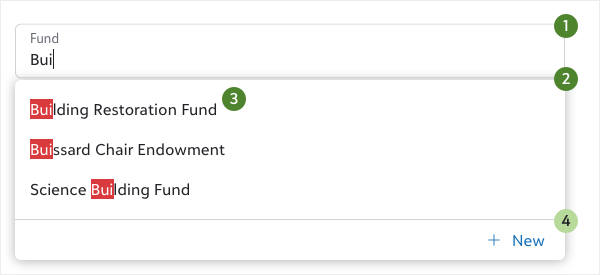
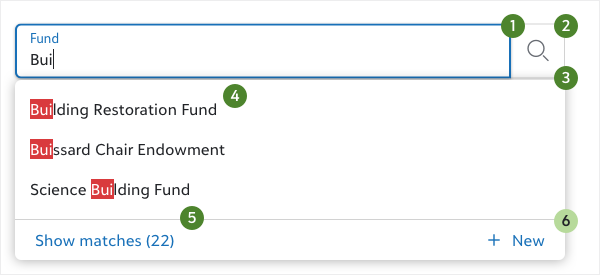
Lookup docs update (#187)
* images

* draft UX docs

* 1 additional usage guideline

* added heading to demo controls

* Update src/app/docs/lookup/lookup-docs.component.html

* Update src/app/docs/lookup/lookup-docs.component.html

* Update src/app/docs/lookup/lookup-docs.component.html

* Update src/app/docs/lookup/lookup-docs.component.html

* Update src/app/docs/lookup/lookup-docs.component.html

* Update src/app/docs/lookup/lookup-docs.component.html

* Update src/app/docs/lookup/lookup-docs.component.html

* Update src/app/docs/lookup/lookup-docs.component.html

* Update src/app/docs/lookup/lookup-docs.component.html

* Update src/app/docs/lookup/lookup-docs.component.html

* Update src/app/docs/lookup/lookup-docs.component.html

* Update src/app/docs/lookup/lookup-docs.component.html

* Update src/app/docs/lookup/lookup-docs.component.html

* Update src/app/docs/lookup/lookup-docs.component.html

* Update src/app/docs/lookup/lookup-docs.component.html

* Update src/app/docs/lookup/lookup-docs.component.html

* Update src/app/docs/lookup/lookup-docs.component.html

* Update src/app/docs/lookup/lookup-docs.component.html

* Update src/app/docs/lookup/lookup-docs.component.html

* Update src/app/docs/lookup/lookup-docs.component.html

* Update src/app/docs/lookup/lookup-docs.component.html

* Update src/app/docs/lookup/lookup-docs.component.html

* Update src/app/docs/lookup/lookup-docs.component.html

* Update src/app/docs/lookup/lookup-docs.component.html
[…]

diff --git a/libs/components/lookup/src/app/docs/lookup/lookup-docs.component.html b/libs/components/lookup/src/app/docs/lookup/lookup-docs.component.html
@@ -14,6 +14,7 @@
       >
       <sky-docs-demo-control-panel-section>
         <sky-docs-demo-control-panel-radio-group
+          heading="Selection mode"
           initialValue="multiple"
           propertyName="selectMode"
           [choices]="selectModeChoices"
@@ -69,10 +70,112 @@
         heading="Use when"
         headingStyle="success"
       >
-        <p class="sky-docs-text-block">
-          Use the lookup component when users need to select an option or multiple options from a long list of options. For guidance on which selection inputs to use in other scenarios, see the <a href="https://developer.blackbaud.com/skyux/design/guidelines/form-design#selection-inputs">form design guidelines</a>.
+        <p>
+          Use lookup fields when users must choose one or more options from a very long list or from an unpredictable list with unfamiliar options. Lookup fields allow users to enter search criteria to narrow their options, so they are useful when lists are unique to the system. For example, use lookup fields for user-defined lists such as code tables where the options are unpredictable and for system-defined lists such as templates where the options are unique to the organization.
         </p>
+        <sky-docs-design-guideline-thumbnail
+            *skyThemeIf="'default'" caption="Do use lookup fields when users choose from long lists of options."
+                                    captionType="success"
+                                    imageSource="~/assets/img/guidelines/lookup/lookup-usage-1-default.png">
+        </sky-docs-design-guideline-thumbnail>
+        <sky-docs-design-guideline-thumbnail
+            *skyThemeIf="'modern'" caption="Do use lookup fields when users choose from long lists of options."
+                                   captionType="success"
+                                   imageSource="~/assets/img/guidelines/lookup/lookup-usage-1-modern.png">
+        </sky-docs-design-guideline-thumbnail>
       </sky-docs-design-guideline>
+        
+      <sky-docs-design-guideline>
+        <p>
+          Use lookup fields when users can choose multiple options from a long list.
+        </p>
+        <sky-docs-design-guideline-thumbnail
+            *skyThemeIf="'default'" caption="Do use lookup fields when users may need to select multiple options."
+                                    captionType="success"
+                                    imageSource="~/assets/img/guidelines/lookup/lookup-usage-2-default.png">
+        </sky-docs-design-guideline-thumbnail>
+        <sky-docs-design-guideline-thumbnail
+            *skyThemeIf="'modern'" caption="Do use lookup fields when users may need to select multiple options."
+                                   captionType="success"
+                                   imageSource="~/assets/img/guidelines/lookup/lookup-usage-2-modern.png">
+        </sky-docs-design-guideline-thumbnail>
+      </sky-docs-design-guideline>
+        
+      <sky-docs-design-guideline>
+        <p>
+          Use lookup fields when users can add options to the list during their tasks.
+        </p>
+        <sky-docs-design-guideline-thumbnail
+            *skyThemeIf="'default'" caption="Do use lookup fields when users may need to add options to the list."
+                                    captionType="success"
+                                    imageSource="~/assets/img/guidelines/lookup/lookup-usage-3-default.png">
+        </sky-docs-design-guideline-thumbnail>
+        <sky-docs-design-guideline-thumbnail
+            *skyThemeIf="'modern'" caption="Do use lookup fields when users may need to add options to the list."
+                                   captionType="success"
+                                   imageSource="~/assets/img/guidelines/lookup/lookup-usage-3-modern.png">
+        </sky-docs-design-guideline-thumbnail>
+      </sky-docs-design-guideline>
+        
+      <sky-docs-design-guideline
+        heading="Don't use when"
+        headingStyle="danger"
+      >
+        <p>
+            Don’t use lookup fields when short lists include 5 options or fewer, especially if it is valuable for users to see all options at once. Use
+            <a *skyThemeIf="'default'" href="https://developer.blackbaud.com/skyux-forms/docs/checkbox">checkboxes</a>
+            <a *skyThemeIf="'modern'" href="https://developer.blackbaud.com/skyux-forms/docs/checkbox?svcid=skyux-modern">checkboxes</a> or 
+            <a *skyThemeIf="'default'" href="https://developer.blackbaud.com/skyux-forms/docs/radio">radio buttons</a>
+            <a *skyThemeIf="'modern'" href="https://developer.blackbaud.com/skyux-forms/docs/radio?svcid=skyux-modern">radio buttons</a> instead.
+        </p>
+        <sky-docs-design-guideline-thumbnail
+            *skyThemeIf="'default'" caption="Don't use lookup fields when users choose options from a short list."
+                                    captionType="danger"
+                                    imageSource="~/assets/img/guidelines/lookup/lookup-usage-4-default.png">
+        </sky-docs-design-guideline-thumbnail>
+        <sky-docs-design-guideline-thumbnail
+            *skyThemeIf="'modern'" caption="Don't use lookup fields when users choose options from a short list."
+                                   captionType="danger"
+                                   imageSource="~/assets/img/guidelines/lookup/lookup-usage-4-modern.png">
+        </sky-docs-design-guideline-thumbnail>
+        <sky-docs-design-guideline-thumbnail
+            *skyThemeIf="'default'" caption="Do use different selection inputs for a short list of options."
+                                    captionType="success"
+                                    imageSource="~/assets/img/guidelines/lookup/lookup-usage-5-default.png">
+        </sky-docs-design-guideline-thumbnail>
+        <sky-docs-design-guideline-thumbnail
+            *skyThemeIf="'modern'" caption="Do use different selection inputs for a short list of options."
+                                   captionType="success"
+                                   imageSource="~/assets/img/guidelines/lookup/lookup-usage-5-modern.png">
+        </sky-docs-design-guideline-thumbnail>
+      </sky-docs-design-guideline>
+        
+      <sky-docs-design-guideline>
+        <p>
+            Don’t use lookup fields when options are highly predictable or when users can easily browse options in an expected order. Use HTML select fields instead. For example, while a list of states is long, it’s predictable and most users are familiar with the options, so the native HTML select field is the preferable option.
+        </p>
+        <sky-docs-design-guideline-thumbnail
+            *skyThemeIf="'default'" caption="Don't use lookup fields when users likely know all the options."
+                                    captionType="danger"
+                                    imageSource="~/assets/img/guidelines/lookup/lookup-usage-6-default.png">
+        </sky-docs-design-guideline-thumbnail>
+        <sky-docs-design-guideline-thumbnail
+            *skyThemeIf="'modern'" caption="Don't use lookup fields when users likely know all the options."
+                                   captionType="danger"
+                                   imageSource="~/assets/img/guidelines/lookup/lookup-usage-6-modern.png">
+        </sky-docs-design-guideline-thumbnail>
+        <sky-docs-design-guideline-thumbnail
+            *skyThemeIf="'default'" caption="Do use HTML select fields for predictable or common sets of options."
+                                    captionType="success"
+                                    imageSource="~/assets/img/guidelines/lookup/lookup-usage-7-default.png">
+        </sky-docs-design-guideline-thumbnail>
+        <sky-docs-design-guideline-thumbnail
+            *skyThemeIf="'modern'" caption="Do use HTML select fields for predictable or common sets of options."
+                                   captionType="success"
+                                   imageSource="~/assets/img/guidelines/lookup/lookup-usage-7-modern.png">
+        </sky-docs-design-guideline-thumbnail>
+      </sky-docs-design-guideline>
+        
     </sky-docs-demo-page-section>
 
     <sky-docs-demo-page-section
@@ -82,17 +185,21 @@
         *skyThemeIf="'default'" imagePath="~/assets/img/guidelines/lookup/lookup-anatomy-default.png"
       >
         <sky-docs-anatomy-item>Input field</sky-docs-anatomy-item>
+        <sky-docs-anatomy-item>Search button</sky-docs-anatomy-item>
         <sky-docs-anatomy-item>Lookup menu</sky-docs-anatomy-item>
         <sky-docs-anatomy-item>Search results</sky-docs-anatomy-item>
-        <sky-docs-anatomy-item isOptional="true">Button to create new option</sky-docs-anatomy-item>
+        <sky-docs-anatomy-item>'Show all/matches' button</sky-docs-anatomy-item>
+        <sky-docs-anatomy-item isOptional="true">'New' button</sky-docs-anatomy-item>
       </sky-docs-anatomy>
       <sky-docs-anatomy
         *skyThemeIf="'modern'" imagePath="~/assets/img/guidelines/lookup/lookup-anatomy-modern.png"
       >
         <sky-docs-anatomy-item>Input field</sky-docs-anatomy-item>
+        <sky-docs-anatomy-item>Search button</sky-docs-anatomy-item>
         <sky-docs-anatomy-item>Lookup menu</sky-docs-anatomy-item>
         <sky-docs-anatomy-item>Search results</sky-docs-anatomy-item>
-        <sky-docs-anatomy-item isOptional="true">Button to create new option</sky-docs-anatomy-item>
+        <sky-docs-anatomy-item>'Show all/matches' button</sky-docs-anatomy-item>
+        <sky-docs-anatomy-item isOptional="true">'New' button</sky-docs-anatomy-item>
       </sky-docs-anatomy>
     </sky-docs-demo-page-section>
 
@@ -141,11 +248,229 @@
         </sky-docs-design-guideline-thumbnail>
     </sky-docs-design-guideline>
 
+    <sky-docs-design-guideline
+      heading="Button to view all options"
+    >
+        <p>
+          The 'Show all/matches' button in the lookup menu lets users open a picker that either displays all options or just the options that match their search string. This button is technically optional for backwards compatibility, but we strongly recommend that you enable it in all instances.
+        </p>
+        <sky-docs-design-guideline-thumbnail
+            *skyThemeIf="'default'" imageSource="~/assets/img/guidelines/lookup/lookup-options-2-default.png">
+        </sky-docs-design-guideline-thumbnail>
+        <sky-docs-design-guideline-thumbnail
+            *skyThemeIf="'modern'" imageSource="~/assets/img/guidelines/lookup/lookup-options-2-modern.png">
+        </sky-docs-design-guideline-thumbnail>
+    </sky-docs-design-guideline>
+
+    <sky-docs-design-guideline
+      heading="Custom picker"
+    >
+        <p>
+          By default, the search and 'Show all/matches' buttons display a native picker with built-in options such as checkboxes for multi-select mode. Use custom pickers instead when different presentations are valuable, such as 
+          <a *skyThemeIf="'default'" href="https://developer.blackbaud.com/skyux-lists/docs/repeater">repeaters</a>
+          <a *skyThemeIf="'modern'" href="https://developer.blackbaud.com/skyux-lists/docs/repeater?svcid=skyux-modern">repeaters</a> 
+          or 
+          <a *skyThemeIf="'default'" href="https://developer.blackbaud.com/skyux-angular-tree-component/docs/angular-tree">tree views</a>
+          <a *skyThemeIf="'modern'" >tree views</a>. By default, both the native picker and custom pickers format options based on the same template as the dropdown list, but you can specify a different template to format the picker options as necessary.
+        </p>
+        <sky-docs-design-guideline-thumbnail
+            *skyThemeIf="'default'" imageSource="~/assets/img/guidelines/lookup/lookup-options-4-default.png">
+        </sky-docs-design-guideline-thumbnail>
+        <sky-docs-design-guideline-thumbnail
+            *skyThemeIf="'modern'" imageSource="~/assets/img/guidelines/lookup/lookup-options-4-modern.png">
+        </sky-docs-design-guideline-thumbnail>
+    </sky-docs-design-guideline>
+
     </sky-docs-demo-page-section>
 
     <sky-docs-demo-page-section
+      heading="Behavior and states"
+    >
+      
+        <sky-docs-design-guideline
+          heading="Behavior"
+        >
+            <p class="sky-docs-text-block">
+            When users place focus on lookup fields, the lookup menu displays the 'Show all #' button. It also displays the 'New' button if that is enabled.
+            </p>
+            <p class="sky-docs-text-block">
+            When users enter the minimum number of characters for search, the lookup menu displays search results and highlights the search string. The “Show all #” button label changes to “Show matches (#)."
+            </p>
+            <p class="sky-docs-text-block">
+            At any time, users can select the search or 'Show all/matches' buttons to open a picker that either displays all options or the options that match their search string.
+            </p>
+            <p class="sky-docs-text-block">
+            When users choose an option in single-select mode, the lookup menu or picker closes, and the selected option appears as text in the lookup field.
+            </p>
+            <p class="sky-docs-text-block">
+            When users choose options in multi-select mode, the selected options appear as tokens in the text input field, and focus returns to the lookup field. The lookup menu displays the 'Show all #' button but does not display search results until users enter the minimum number of characters.
+            </p>
+            <p class="sky-docs-text-block">
+            When users remove focus before selecting an option, the lookup field deletes any text.
+            </p>
+        </sky-docs-design-guideline>
+        
+        <h3>States</h3>
+        
+            <table class="sky-docs-table">
+              <tr>
+                <td class="sky-docs-table-cell sky-docs-table-cell-primary">
+                  Base
+                </td>
+                <td class="sky-docs-table-cell">
+                  <sky-docs-design-guideline-thumbnail
+                        *skyThemeIf="'default'"
+                        imageSource="~/assets/img/guidelines/lookup/lookup-states-base-default.png"
+                  >
+                  </sky-docs-design-guideline-thumbnail>
+                  <sky-docs-design-guideline-thumbnail
+                        *skyThemeIf="'modern'"
+                        imageSource="~/assets/img/guidelines/lookup/lookup-states-base-modern.png"
+                  >
+                  </sky-docs-design-guideline-thumbnail>
+                </td>
+              </tr>
+              <tr>
+                <td class="sky-docs-table-cell">
+                  Focus
+                </td>
+                <td class="sky-docs-table-cell">
+                  <sky-docs-design-guideline-thumbnail
+                        *skyThemeIf="'default'"
+                        imageSource="~/assets/img/guidelines/lookup/lookup-states-focus-default.png"
+                  >
+                  </sky-docs-design-guideline-thumbnail>
+                  <sky-docs-design-guideline-thumbnail
+                        *skyThemeIf="'modern'"
+                        imageSource="~/assets/img/guidelines/lookup/lookup-states-focus-modern.png"
+                  >
+                  </sky-docs-design-guideline-thumbnail>
+                </td>
+              </tr>
+              <tr>
+                <td class="sky-docs-table-cell">
+                  Search string
+                </td>
+                <td class="sky-docs-table-cell">
+                  <sky-docs-design-guideline-thumbnail
+                        *skyThemeIf="'default'"
+                        imageSource="~/assets/img/guidelines/lookup/lookup-states-search-string-default.png"
+                  >
+                  </sky-docs-design-guideline-thumbnail>
+                  <sky-docs-design-guideline-thumbnail
+                        *skyThemeIf="'modern'"
+                        imageSource="~/assets/img/guidelines/lookup/lookup-states-search-string-modern.png"
+                  >
+                  </sky-docs-design-guideline-thumbnail>
+                </td>
+              </tr>
+              <tr>
+                <td class="sky-docs-table-cell sky-docs-table-cell-primary">
+                  Selected option (single-select)
+                </td>
+                <td class="sky-docs-table-cell">
+                  <sky-docs-design-guideline-thumbnail
+                        *skyThemeIf="'default'"
+                        imageSource="~/assets/img/guidelines/lookup/lookup-states-result-selected-default.png"
+                  >
+                  </sky-docs-design-guideline-thumbnail>
+                  <sky-docs-design-guideline-thumbnail
+                        *skyThemeIf="'modern'"
+                        imageSource="~/assets/img/guidelines/lookup/lookup-states-result-selected-modern.png"
+                  >
+                  </sky-docs-design-guideline-thumbnail>
+                </td>
+              </tr>
+              <tr>
+                <td class="sky-docs-table-cell">
+                  Selected option (multi-select)
+                </td>
+                <td class="sky-docs-table-cell">
+                  <sky-docs-design-guideline-thumbnail
+                        *skyThemeIf="'default'"
+                        imageSource="~/assets/img/guidelines/lookup/lookup-states-results-selected-default.png"
+                  >
+                  </sky-docs-design-guideline-thumbnail>
+                  <sky-docs-design-guideline-thumbnail
+                        *skyThemeIf="'modern'"
+                        imageSource="~/assets/img/guidelines/lookup/lookup-states-results-selected-modern.png"
+                  >
+                  </sky-docs-design-guideline-thumbnail>
+                </td>
+              </tr>
+              <tr>
+                <td class="sky-docs-table-cell">
+                  Wrapped selections (multi-select)
+                </td>
+                <td class="sky-docs-table-cell">
+                  <sky-docs-design-guideline-thumbnail
+                        *skyThemeIf="'default'"
+                        imageSource="~/assets/img/guidelines/lookup/lookup-states-wrapped-default.png"
+                  >
+                  </sky-docs-design-guideline-thumbnail>
+                  <sky-docs-design-guideline-thumbnail
+                        *skyThemeIf="'modern'"
+                        imageSource="~/assets/img/guidelines/lookup/lookup-states-wrapped-modern.png"
+                  >
+                  </sky-docs-design-guideline-thumbnail>
+                </td>
+              </tr>
+              <tr>
+                <td class="sky-docs-table-cell">
+                  Native picker
+                </td>
+                <td class="sky-docs-table-cell">
+                  <sky-docs-design-guideline-thumbnail
+                        *skyThemeIf="'default'"
+                        imageSource="~/assets/img/guidelines/lookup/lookup-states-modal-open-default.png"
+                  >
+                  </sky-docs-design-guideline-thumbnail>
+                  <sky-docs-design-guideline-thumbnail
+                        *skyThemeIf="'modern'"
+                        imageSource="~/assets/img/guidelines/lookup/lookup-states-modal-open-modern.png"
+                  >
+                  </sky-docs-design-guideline-thumbnail>
+                </td>
+              </tr>
+              <tr>
+                <td class="sky-docs-table-cell">
+                  Search results in native picker
+                </td>
+                <td class="sky-docs-table-cell">
+                  <sky-docs-design-guideline-thumbnail
+                        *skyThemeIf="'default'"
+                        imageSource="~/assets/img/guidelines/lookup/lookup-states-modal-search-default.png"
+                  >
+                  </sky-docs-design-guideline-thumbnail>
+                  <sky-docs-design-guideline-thumbnail
+                        *skyThemeIf="'modern'"
+                        imageSource="~/assets/img/guidelines/lookup/lookup-states-modal-search-modern.png"
+                  >
+                  </sky-docs-design-guideline-thumbnail>
+                </td>
+              </tr>
+            </table>
+
+      
+    </sky-docs-demo-page-section>
+        
+    <sky-docs-demo-page-section
       heading="Related information"
     >
+        <ul>
+          <li>
+            <a *skyThemeIf="'default'" href="https://developer.blackbaud.com/skyux-forms/docs/checkbox">Checkbox</a>
+            <a *skyThemeIf="'modern'" href="https://developer.blackbaud.com/skyux-forms/docs/checkbox?svcid=skyux-modern">Checkbox</a>
+          </li>
+          <li>
+            <a *skyThemeIf="'default'" href="https://developer.blackbaud.com/skyux-forms/docs/input-box">Input box</a>
+            <a *skyThemeIf="'modern'" href="https://developer.blackbaud.com/skyux-forms/docs/input-box?svcid=skyux-modern">Input box</a>
+          </li>
+          <li>
+            <a *skyThemeIf="'default'" href="https://developer.blackbaud.com/skyux-forms/docs/radio">Radio button</a>
+            <a *skyThemeIf="'modern'" href="https://developer.blackbaud.com/skyux-forms/docs/radio?svcid=skyux-modern">Radio button</a>
+          </li>
+        </ul>
       <sky-docs-design-guideline
         heading="Guidelines"
       >
@@ -156,6 +481,7 @@
         </ul>
       </sky-docs-design-guideline>
     </sky-docs-demo-page-section>
+          
   </sky-docs-design-guidelines>
 
   <sky-docs-code-examples
